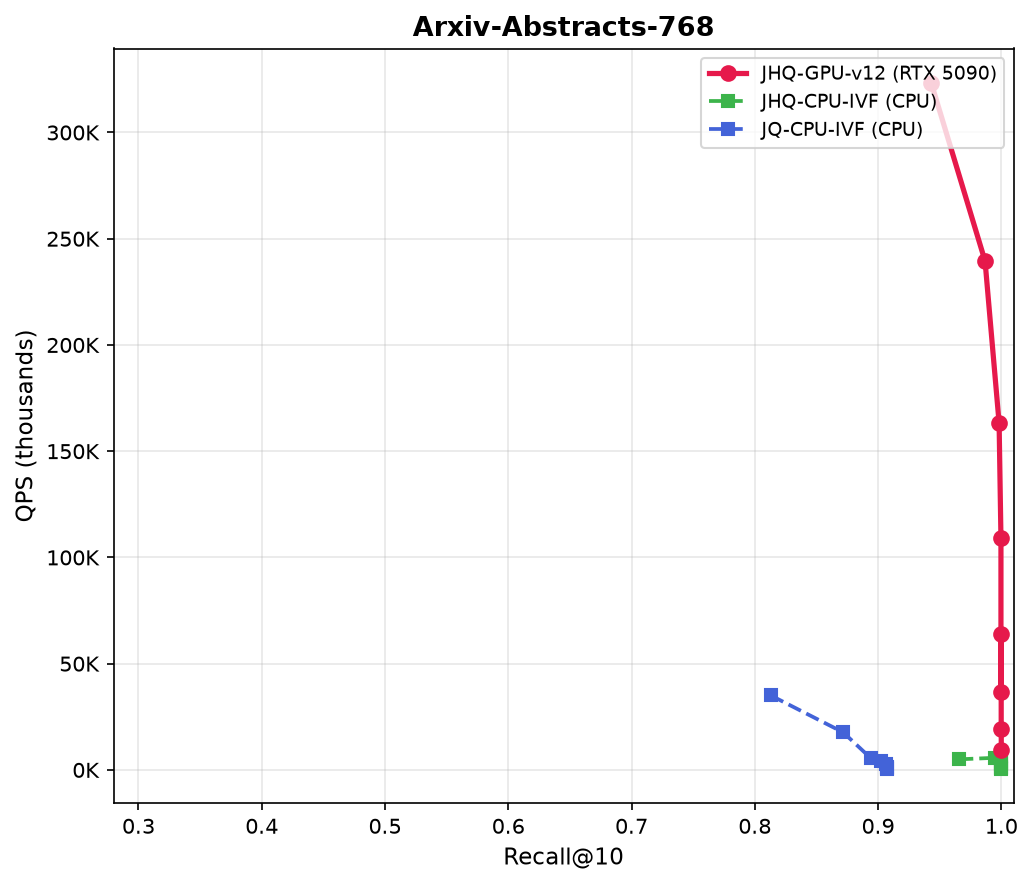
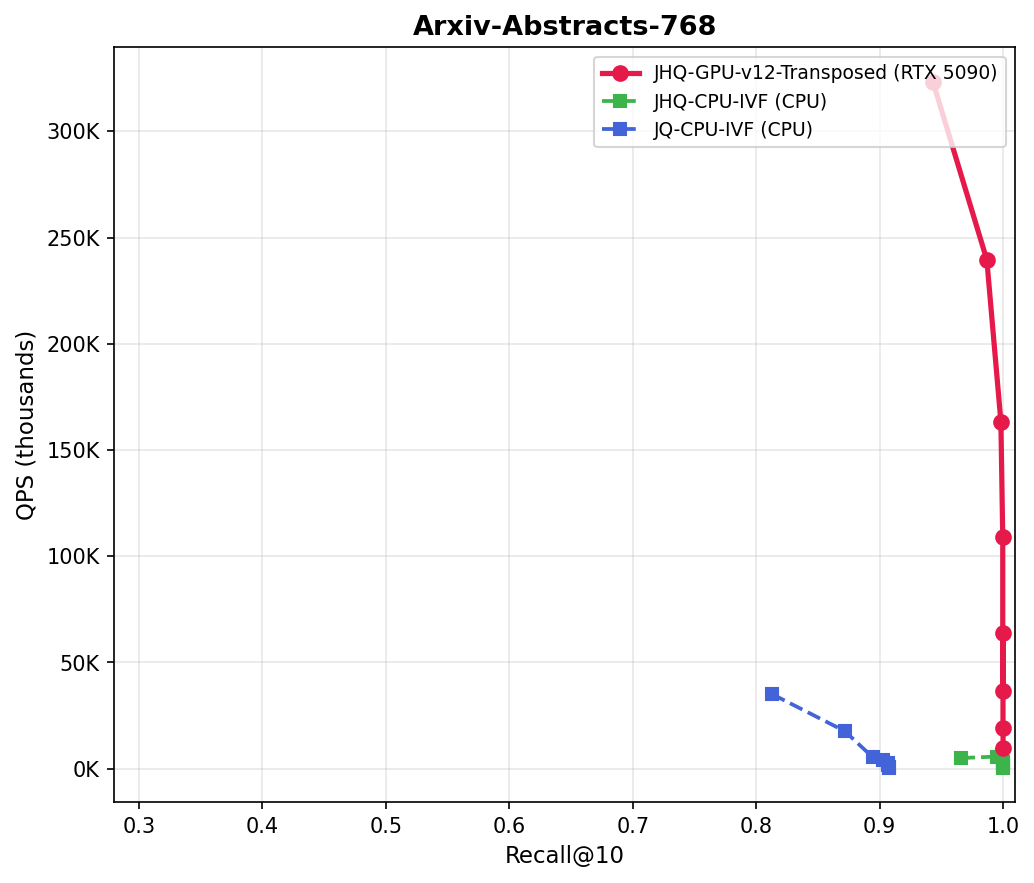
plot_v12_vs_cpu_all: discover jhq_v14_* GPU results too
bge-m3 and stella-trec24 just got their first real GPU numbers via
jhq_v14_streaming_add (v12's add() can't fit either in VRAM). The
discovery logic only looked for jhq_v12_* GPU CSVs, and the GPU line's
legend label was hardcoded to "JHQ-GPU-v12" regardless of which file
was actually plotted -- fixed both: GPU source now falls back to
jhq_v14_* when no jhq_v12_* file exists for a dataset (v12 wins where
both exist), and the legend label reads the method name from the CSV
itself, matching how the CPU side already handles JHQ-CPU-IVF vs
JQ-CPU-IVF.

diff --git a/scripts/plot_v12_vs_cpu_all.py b/scripts/plot_v12_vs_cpu_all.py
@@ -1,13 +1,13 @@
 #!/usr/bin/env python3
 """
-Generate one JHQ-GPU-v12 vs JHQ-CPU-IVF recall/QPS figure per dataset,
+Generate one JHQ-GPU vs JHQ-CPU-IVF recall/QPS figure per dataset,
 matching the style of the existing results/jhq_v12_vs_cpu.png (which only
 covers Vogue-768), for every dataset that has both a GPU and a CPU CSV
-under results/.
+under results/. GPU source is jhq_v12_* where present, else jhq_v14_*
+(bge-m3/stella-trec24) -- see discover_datasets().
 
-Silently skips a dataset if either its GPU or CPU CSV is missing (e.g.
-bge-m3/stella-trec24, whose GPU side isn't ready yet) -- rerun this after
-adding more datasets' results, no need to list them here.
+Silently skips a dataset if either its GPU or CPU CSV is missing -- rerun
+this after adding more datasets' results, no need to list them here.
 
 Usage: python3 scripts/plot_v12_vs_cpu_all.py
 """
@@ -36,15 +36,24 @@ CPU_COLOR_FALLBACK = "#808000"
 
 # (display title, gpu csv, cpu csv) -- discovered dynamically below instead
 # of hardcoded, so this script doesn't need editing as more datasets land.
-GPU_PREFIX = "jhq_v12_"
+# v12_transposed is the original/validated GPU line for the first 4
+# datasets; v14_streaming_add exists only because v12's add() can't fit
+# bge-m3/stella-trec24 in VRAM (see jhq_v14_streaming_add/jhq_gpu_index.cu),
+# so it's the GPU source for those two specifically. Where both exist for
+# the same dataset (arxiv/vogue got a v14 run too, just to cross-validate
+# it against v12 -- see the recall-match check before trusting v14 on the
+# big datasets), v12 wins: it's the one with the longer track record.
+GPU_PREFIXES = ["jhq_v12_", "jhq_v14_"]
 CPU_PREFIX = "jhq_cpu_ivf_"
 
 
 def discover_datasets():
     found = {}
-    for path in glob.glob(os.path.join(RESULTS, f"{GPU_PREFIX}*.csv")):
-        name = os.path.basename(path)[len(GPU_PREFIX):-len(".csv")]
-        found.setdefault(name, {})["gpu"] = path
+    for prefix in GPU_PREFIXES:
+        for path in glob.glob(os.path.join(RESULTS, f"{prefix}*.csv")):
+            name = os.path.basename(path)[len(prefix):-len(".csv")]
+            entry = found.setdefault(name, {})
+            entry.setdefault("gpu", path)  # first prefix wins -- v12 before v14
     for path in glob.glob(os.path.join(RESULTS, f"{CPU_PREFIX}*.csv")):
         name = os.path.basename(path)[len(CPU_PREFIX):-len(".csv")]
         found.setdefault(name, {})["cpu"] = path
@@ -57,9 +66,10 @@ def discover_datasets():
 
 def plot_one(ax, gpu_csv, cpu_csv, title):
     gpu_df = pd.read_csv(gpu_csv).sort_values("recall")
+    gpu_method = gpu_df["method"].iloc[0]
     ax.plot(gpu_df["recall"], gpu_df["qps"] / 1000, "o-",
             color=GPU_COLOR, linewidth=2.5, markersize=7,
-            label="JHQ-GPU-v12 (RTX 5090)", zorder=5)
+            label=f"{gpu_method} (RTX 5090)", zorder=5)
 
     cpu_df = pd.read_csv(cpu_csv).sort_values("recall")
     for method, grp in cpu_df.groupby("method"):
@@ -114,7 +124,7 @@ def main():
         plot_one(axes[i], datasets[name]["gpu"], datasets[name]["cpu"], pretty_title(name))
     for j in range(len(names), len(axes)):
         axes[j].axis("off")
-    fig.suptitle("JHQ-GPU-v12 vs JHQ-CPU-IVF", fontsize=15, fontweight="bold")
+    fig.suptitle("JHQ-GPU vs JHQ-CPU-IVF", fontsize=15, fontweight="bold")
     plt.tight_layout()
     out = os.path.join(RESULTS, "jhq_v12_vs_cpu_all.png")
     plt.savefig(out, dpi=150, bbox_inches="tight")
